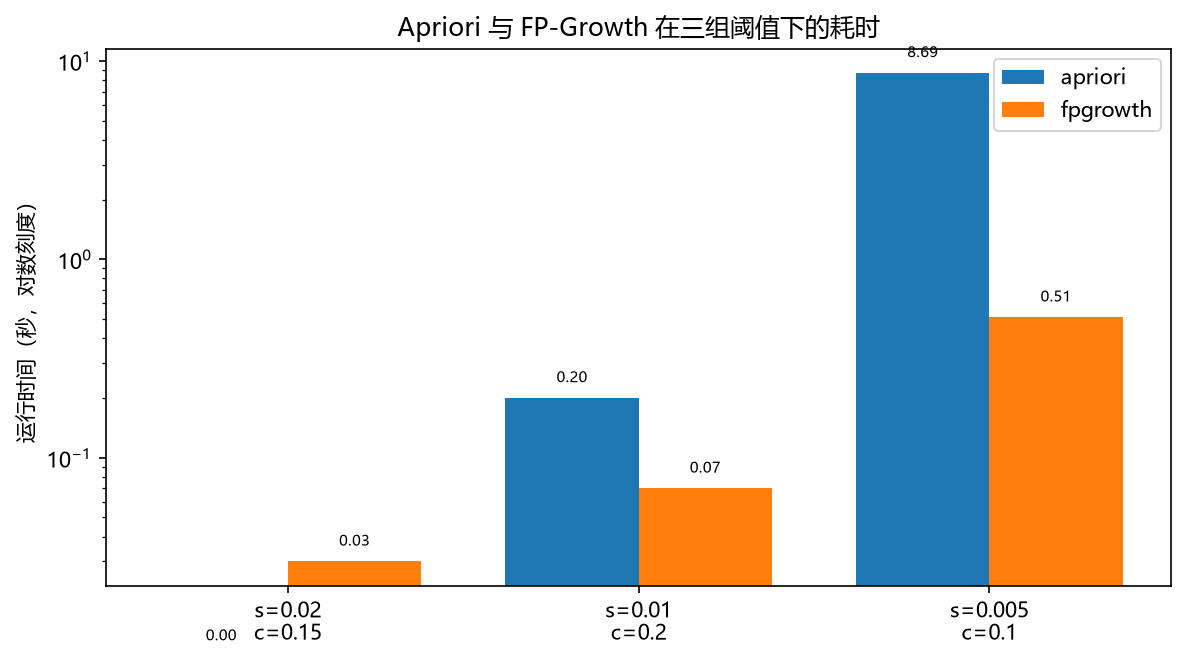
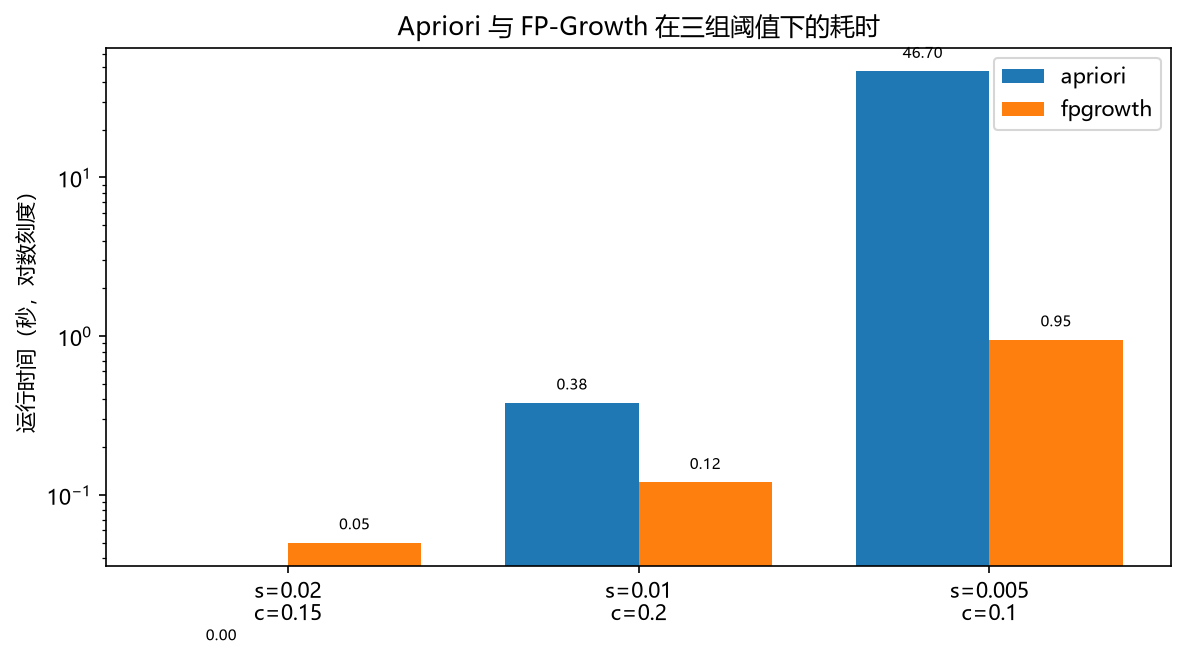
fix: 补充 P3 规则审计与 P5 簇价格画像

diff --git a/src/rules.py b/src/rules.py
@@ -167,10 +167,25 @@ def mine(frame, algorithm, min_support, min_confidence, max_len, n_transactions)
 
 def clean_rules(rules, n_transactions, titles):
     if rules.empty:
-        return pd.DataFrame(
-            columns=["antecedents", "consequents", "support", "confidence", "lift"]
+        empty = pd.DataFrame(
+            columns=[
+                "antecedents", "consequents", "support", "confidence", "lift",
+                "antecedent", "consequent", "count", "pair_key",
+                "antecedent_titles", "consequent_title",
+            ]
         )
+        empty.attrs["trivial_removed"] = 0
+        empty.attrs["lift_removed"] = 0
+        return empty
+    trivial_mask = (
+        rules["antecedents"].map(len).eq(0)
+        | rules["consequents"].map(len).eq(0)
+    )
+    trivial_removed = int(trivial_mask.sum())
+    rules = rules.loc[~trivial_mask]
+    before_lift = len(rules)
     rules = rules.loc[rules["lift"] > 1.0].copy()
+    lift_removed = before_lift - len(rules)
     rules["antecedent"] = rules["antecedents"].map(lambda s: "|".join(sorted(s)))
     rules["consequent"] = rules["consequents"].map(lambda s: "|".join(sorted(s)))
     rules["count"] = (rules["support"] * n_transactions).round().astype(int)
@@ -189,6 +204,8 @@ def clean_rules(rules, n_transactions, titles):
     rules["consequent_title"] = rules["consequent"].map(
         lambda item: titles.get(item, "")
     )
+    rules.attrs["trivial_removed"] = trivial_removed
+    rules.attrs["lift_removed"] = lift_removed
     return rules
 
 
@@ -358,6 +375,11 @@ def main() -> None:
 
     cleaned = clean_rules(base, n, titles)
     assert len(cleaned) > 0, "清洗后没有规则"
+    trivial_remaining = int(
+        (cleaned["antecedents"].map(len).eq(0)
+         | cleaned["consequents"].map(len).eq(0)).sum()
+    )
+    assert trivial_remaining == 0, "清洗后仍有平凡规则"
     rule_items = set().union(
         *[set(a) | set(c) for a, c in zip(base["antecedents"], base["consequents"])]
     )
@@ -440,6 +462,7 @@ def main() -> None:
         "support_in_range": bool(base["support"].between(0, 1).all()),
         "confidence_in_range": bool(base["confidence"].between(0, 1).all()),
         "runtime_recorded": all(row["seconds"] >= 0 for row in runtime_rows),
+        "no_trivial_rules": bool(trivial_remaining == 0),
     }
     summary = {
         "generated_at": datetime.now().astimezone().isoformat(timespec="seconds"),
@@ -468,6 +491,8 @@ def main() -> None:
             "apriori": len(base),
             "fpgrowth": len(other),
             "after_dedup": len(cleaned),
+            "trivial_removed": int(cleaned.attrs.get("trivial_removed", 0)),
+            "lift_filtered": int(cleaned.attrs.get("lift_removed", 0)),
         },
         "assertions": assertions,
         "figure_errors": figure_errors,

diff --git a/src/cluster.py b/src/cluster.py
@@ -278,8 +278,6 @@ def build_profiles(products, labels, profile_frame, feature_names, k):
     frame = products.copy()
     frame["cluster"] = labels
     cluster_means = profile_frame.groupby(labels).mean()
-    reviews_median = float(frame["n_reviews"].median())
-    price_median = float(np.expm1(profile_frame["log_price"]).median())
 
     rows = []
     names = []
@@ -318,6 +316,13 @@ def build_profiles(products, labels, profile_frame, feature_names, k):
                 "size": int(len(part)),
                 "share": round(len(part) / len(frame), 4),
                 "mean_overall": round(float(part["mean_overall"].mean()), 4),
+                "price_median_usd": (
+                    round(float(part["price"].median()), 2)
+                    if part["price"].notna().any()
+                    else float("nan")
+                ),
+                "n_price_observed": int(part["price"].notna().sum()),
+                "price_missing_share": round(float(part["price_missing"].mean()), 4),
                 "top_titles": "; ".join(short(title, 60) for title in representatives.head(3)),
             }
         )
@@ -337,10 +342,15 @@ def build_profiles(products, labels, profile_frame, feature_names, k):
     for feature in feature_names:
         means = cluster_means[feature].reindex(profiles["cluster"]).to_numpy()
         profiles[f"mean_{feature}"] = np.round(means, 4)
+    profiles["mean_log_price"] = np.round(
+        cluster_means["log_price"].reindex(profiles["cluster"]).to_numpy(), 4
+    )
 
-    columns = ["cluster", "size", "share", "name", "mean_overall", "top_titles"] + [
-        f"mean_{feature}" for feature in feature_names
-    ]
+    columns = [
+        "cluster", "size", "share", "name", "mean_overall",
+        "price_median_usd", "n_price_observed", "price_missing_share",
+        "mean_log_price", "top_titles",
+    ] + [f"mean_{feature}" for feature in feature_names]
     return profiles[columns]
 
 
@@ -532,9 +542,15 @@ def main() -> None:
         "ari_ge_0_6": bool(ari_mean >= MIN_ARI),
         "scope_only": bool(scope_only),
         "features_standardized": standardized,
+        "price_profile_complete": bool(
+            profiles[
+                ["price_median_usd", "n_price_observed", "price_missing_share"]
+            ].notna().all().all()
+        ),
     }
     assert scope_only, "聚类样本中出现范围外商品"
     assert standardized, "特征未标准化"
+    assert assertions["price_profile_complete"], "簇画像价格列存在缺失"
 
     summary = {
         "generated_at": datetime.now().astimezone().isoformat(timespec="seconds"),
